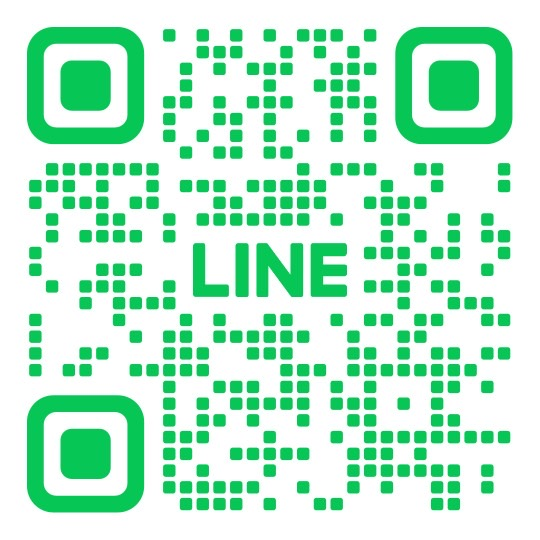
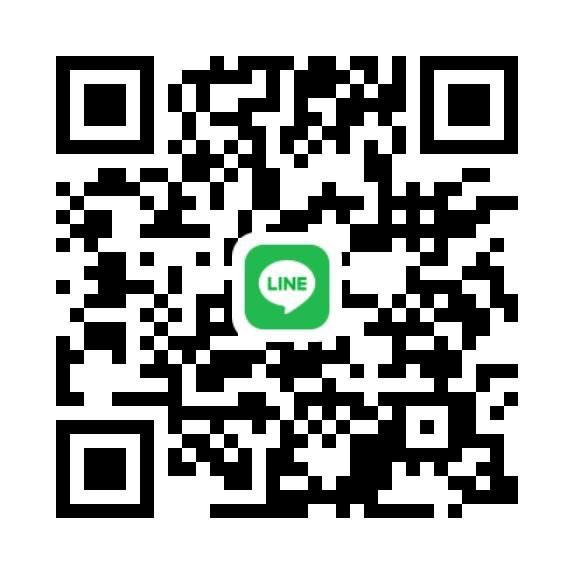
done

diff --git a/app/about/About.tsx b/app/about/About.tsx
@@ -12,30 +12,65 @@ const About = () => {
       <br />
       <div className="w-[95%] 800px:w-[85%] m-auto">
         <p className="text-[18px] font-Poppins">
-        Qkrun
+          ชื่อ-สกุล (ภาษาไทย) : ดร.รุ่งโรจน์  พงศ์กิจวิทูร
+          <br />
+          (ภาษาอังกฤษ):Dr.Rungrote Pongkitwitoon
           <br />
           <br />
-          เหตุนี้ทางก็ได้คิดจะช่วยเหลือมือใหม่ เพื่อให้ไม่ต้องเสียค่าครูเป็นจำนวนเงินเยอะ
-          จึงเกิดคอร์สสอนเทรดที่สามารถนำไปใช้ได้โดยไม่ต้องเสียเงินลองผิดลองถูก
-          โดยคอร์สมีทั้งกลยุทธิ์เทรดข่าว กลยุทธิ์เทรดโดยดูเเท่งเทียน รวนถึงเทรดเทคนิค
+          ตำแหน่งปัจจุบัน		ผู้ช่วยศาสตราจารย์
 
-          <br />
-          <br />
-          <br />
-          ความรู้และความชำนาญที่เรามีอยู่ในวงการ forex นั้นเป็นผลมาจากประสบการณ์การเทรดที่ยาวนาน 
-          และการศึกษาที่สม่ำเสมอในตลาดเงินโลก เราได้รวบรวมและวิเคราะห์ข้อมูลต่างๆ เพื่อให้คุณได้รับความรู้ที่มีคุณค่าและเป็นประโยชน์ในการเทรด 
-          forex อย่างมืออาชีพ
-          <br />
-          <br />
-          ความมุ่งมั่นของเราคือการให้บริการที่มีคุณภาพสูงสุดแก่ลูกค้าทุกท่าน โดยเรามุ่งเน้นให้คุณได้รับประสบการณ์การเรียนรู้ที่เป็นมิตรและสนุกสนาน
-           ทางเรามีทีมงานคุณภาพที่มีความคิดสร้างสรรค์และเชี่ยวชาญในวงการ forex ที่พร้อมให้คำแนะนำและคำปรึกษาที่เป็นประโยชน์ตลอดเวลา
-           <br /><br />
-      
 
 
           <br />
-          สุดท้ายเเล้ว อยากจะบอกทุกคนที่เข้ามาอ่านหรือมาเรียน ให้คำนึงถึงความเสี่ยง
-          ก่อนที่จะเทรดจริงทุกครั้ง เพราะไม่อยากให้ใคร .. ต้องมาเเล้วก็หายไปในตลาด
+
+          <br />
+          หน่วยงานและสถานที่อยู่ที่ติดต่อได้สะดวก
+          <br />
+          <br />
+          สาขาวิชาเทคโนโลยีและสื่อสารการศึกษา  คณะครุศาสตร์
+          มหาวิทยาลัยราชภัฏนครราชสีมา
+          <br />
+          โทรศัพท์เคลื่อนที่  08-1790-5410
+          <br />
+          e-mail:  rungrote.p@nrru.ac.th
+
+          <br />
+          <br />
+          ประวัติการศึกษา
+          <br />
+          <br />
+          ปริญญาตรี
+          <br />
+          วิทยาศาสตร์บัณฑิต สาขาสถิติ  [วท.บ. (สถิติ)]
+          มหาวิทยาลัยขอนแก่น
+          <br />
+          <br />
+          ปริญญาโท
+          <br />
+          ครุศาสตรมหาบัณฑิต  สาขาเทคโนโลยีและสื่อสารการศึกษา
+          [คม. (เทคโนโลยีและสื่อสารการศึกษา)]
+          สถาบันราชภัฏนครราชสีมา
+          <br />
+          <br />
+          ปริญญาเอก
+          <br />
+          ปรัชญาดุษฎีบัณฑิต สาขาสารสนเทศศึกษา [ปร.ด.(สารสนเทศศึกษา)]
+          มหาวิทยาลัยขอนแก่น
+          <br /><br />
+
+
+
+          <br />
+         
+          ประสบการณ์ทำงาน
+          <br />
+          2565-ปัจจุบัน	ประธานหลักสูตรเทคโนโลยีและสื่อสารการศึกษา ระดับปริญญาโท
+          <br />
+          2544-ปัจจุบัน	อาจารย์ มหาวิทยาลัยราชภัฏนครราชสีมา
+          <br />
+          2563-พ.ค.2566		ผู้ช่วยอธิการบดี ฝ่ายเทคโนโลยีการศึกษาและการพัฒนาความเป็นสากล
+          <br />
+          2562-2563	ผู้ช่วยอธิการบดี ฝ่ายดิจิทัลเพื่อการศึกษา
           <br />
           <br />
 
@@ -45,10 +80,10 @@ const About = () => {
         <br />
         <br />
         <h5 className="text-[18px] font-Poppins">
-        Line Id : @primeschoolps
-        <br />
-        <br />
-        เบอร์โทรติดต่อ : 091-991-6446 
+          Line Id :  buffchyy
+          <br />
+          <br />
+          เบอร์โทรติดต่อ : 081-790-5410
 
 
         </h5>

diff --git a/app/components/Footer.tsx b/app/components/Footer.tsx
@@ -44,15 +44,15 @@ const Footer = (props: Props) => {
             <div>
               <h3 className="text-[20px] font-[600] text-black dark:text-white pb-3">Contact Info</h3>
               <p className="text-base text-black dark:text-gray-300 dark:hover:text-white pb-2">
-                Tel. : 091-991-6446
+                Tel. : 081-790-5410
               </p>
 
               <p className="text-base text-black dark:text-gray-300 dark:hover:text-white pb-2">
-                Email : primeschoolps@gmail.com 
+                Email : rungrote.p@nrru.ac.th
               </p>
 
               <p className="text-base text-black dark:text-gray-300 dark:hover:text-white  pb-2">
-                Line Id : @primeschoolps
+                Line Id : buffchyy
               </p>
             </div>
           </div>
